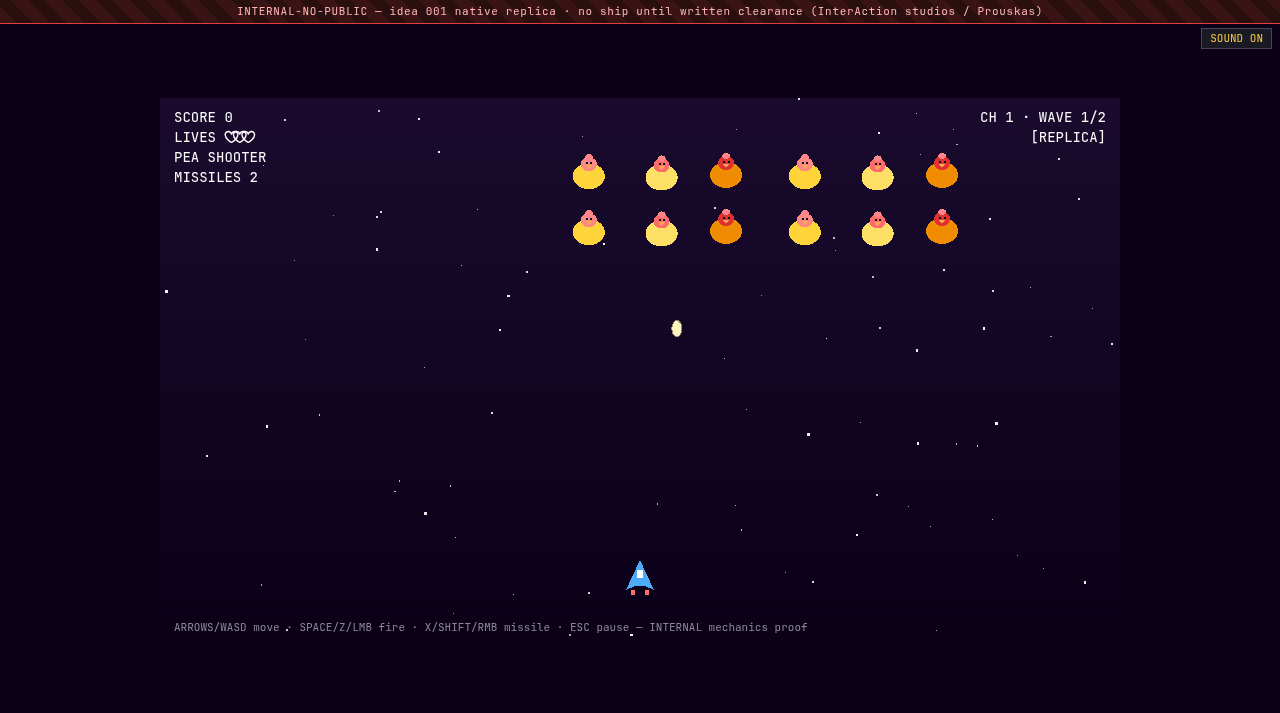
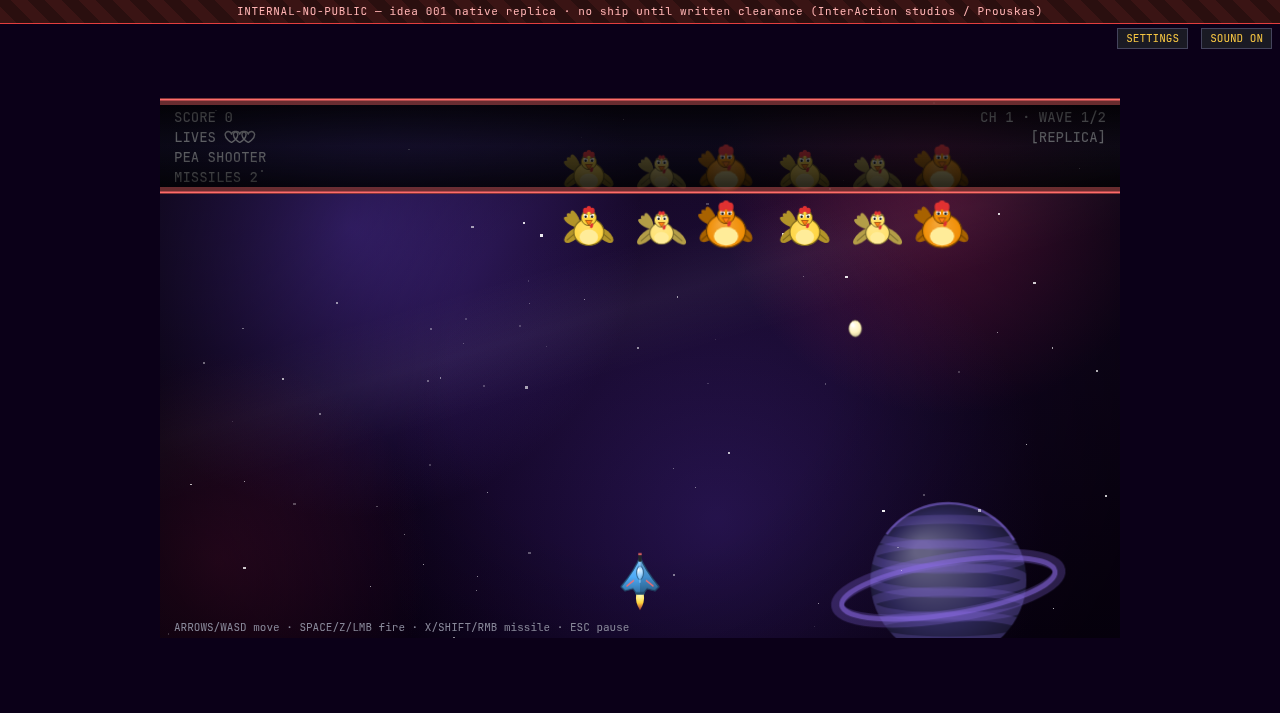
sr3 closing fleet audit: ALL GATES GREEN on final committed tree
- node hardest/validate.mjs: 114/114 exit 0
- typecheck 8/8 workspaces
- all-7 hub click-through (sr1-hub-run.mjs, updated for sr2 title
  flows: sas New Gladiator, burger START+sow coords, impossible title
  chips/run-mode API + bare-canvas selector): PASS — boot + real-input
  interaction per game, 0 console errors, 0 non-local requests;
  file:// hub renders with serve hint; evidence refreshed
- rights audit: shipped artifacts clean (slugs/storage-keys/comments
  only); external-URL audit: none
- branding FINAL: 'Impossible Run' kept (generic adjective + genre
  noun per Burger Tycoon precedent; full-title mark absent); all sr1
  proposals confirmed, applied in-app during sr2
- run plan items 4+5 DONE; closing audit table recorded

Changed region(s): [[0.125, 0.1234, 0.875, 0.6171], [0.4375, 0.4937, 0.8438, 0.8948], [0.875, 0.0309, 0.9375, 0.0926]]

diff --git a/ship-records/README.md b/ship-records/README.md
@@ -74,12 +74,16 @@ Fleet branding below).
    each, 0 console errors, 0 non-local requests): driver
    `verification/evidence/sr1-hub-run.mjs`, log `sr1-hub-run.log`,
    screenshots `sr1-hub*.png`.
-4. **Ship-readiness per game:** resolve/tune placeholder constants, audio
-   (WebAudio doctrine), authored art, menus/HUD/pause/settings/touch/
-   persistence, rights renames (hardest title still original; check each
-   app's player-facing strings).
-5. **Final verification + records:** real-input proofs with evidence; finish
-   each record's checklist/commands/deferrals/provenance.
+4. ~~**Ship-readiness per game**~~ — **DONE (sr2 2026-09-23):** all six titles
+   at SHIP-CANDIDATE — constants tuned with recorded rationale (declared
+   guesses eliminated), WebAudio music + SFX per doctrine, authored art,
+   title/menus/HUD/pause/settings (volume/mute persisted)/touch/persistence,
+   rights renames applied in-app. Per-title results in the records; evidence
+   `verification/evidence/sr2-*`.
+5. ~~**Final verification + records**~~ — **DONE (sr3 2026-09-23):** closing
+   fleet audit below; all recorded verification re-runs offline with zero new
+   dependencies; records complete (checklists, commands + last observed
+   results, deferrals, provenance).
 
 ## Fleet branding (player-facing names, rights posture)
 
@@ -89,22 +93,30 @@ docs, and records; every player-facing name is an original evocation.
 
 | Hub card | Rendition (href) | Name | Basis |
 |---|---|---|---|
-| Crateheads | `games/boxhead/` | Crateheads | **Proposed sr1 2026-09-23** (evocation; flagged for parent) |
-| Impossible Run | `games/impossible-game/` | Impossible Run | **Proposed sr1 2026-09-23** (evocation; keeps the generic adjective only, flagged — alternative "One-Button Ordeal") |
+| Crateheads | `games/boxhead/` | Crateheads | **Decided sr1, applied in-app sr2** (wordmark + strings; bundle grep clean) |
+| Impossible Run | `games/impossible-game/` | Impossible Run | **Decided sr3 2026-09-23 (final):** keeps only the generic adjective + genre noun per the Burger Tycoon precedent (drop the mark, keep descriptive generics); the full-title mark is "The Impossible Game", which appears nowhere player-facing. Alternative "One-Button Ordeal" rejected — loses legibility without reducing risk. |
 | Burger Tycoon | `games/burger-tycoon/` | Burger Tycoon | Sanctioned precedent (concept spec 03; internal UI branding) |
-| Chicken Storm | `games/chicken-invaders/` | Chicken Storm | **Proposed sr1 2026-09-23** (evocation; flagged for parent) |
+| Chicken Storm | `games/chicken-invaders/` | Chicken Storm | **Decided sr1, applied in-app sr2** (pack title + strings; subtitle scrubbed) |
 | Cluck Horizon | `games/cluck-horizon/` | Cluck Horizon | Sanctioned original IP (concept spec 06; in-app title) |
 | Arena of Bonks | `games/swords-and-sandals/` | Arena of Bonks | In-app original string (`apps/swords-and-sandals` arena title), reused |
 | The Cruel Maze | `hardest/` | The Cruel Maze | **Decided sr1 2026-09-23** (renamed in `hardest/game.js`, `hardest/index.html`, `hardest/README.md`; validator re-run 114/114 after) |
 
-Known remaining original-mark player-facing strings INSIDE the apps (out
-of the sr1 slice's touch list; flagged for the ship-readiness wave):
-`apps/boxhead/src/game.ts` title "BOXHEAD — 2PLAY ROOMS (native replica)";
-`apps/swords-and-sandals/src/main.ts` canvas title "SWORDS & SANDALS";
-shmup replica pack title "CHICKEN INVADERS" (`packages/shmup-core/src/
-packs.ts`); impossible in-app strings reference the original title in
-comments only. Level 96 display name "World's Hardest" (`hardest/levels/
-96-worlds-hardest.js`, HUD-visible) also flagged.
+sr2 wave applied every rename in-app (Crateheads wordmark, Chicken Storm
+pack title, Arena of Bonks title, Impossible Run title, The Cruel Maze +
+level-name sweep). sr3 audit: original marks appear in shipped artifacts
+only as storage-key slugs (`maga:boxhead:*` — recorded must-not-regress
+keys), path slugs, and code comments (explicitly permitted).
+
+## Closing fleet audit (sr3, 2026-09-23 — final committed tree)
+
+| Gate | Command | Result |
+|---|---|---|
+| Hardest corpus validator | `node hardest/validate.mjs` | **114/114 exit 0** |
+| Typecheck (8 workspaces) | `npm run typecheck -w @maga/<each>` | **8/8 PASS** |
+| Fleet click-through | `python3 -m http.server 8123` + `node verification/evidence/sr1-hub-run.mjs` | **PASS — all 7 games boot + real-input interaction, 0 console errors, 0 non-local requests** (driver updated for sr2 title flows; refreshed evidence committed) |
+| file:// hub | (same driver) | PASS — 7 cards + serve hint |
+| Rights audit | grep shipped `games/`+`hardest/`+`index.html` for original marks | clean (slugs/comments/keys only) |
+| External-URL audit | grep shipped artifacts for http(s) refs | none (pixi/w3 inert strings only) |
 
 ## Standing directives (from the design pack; bind all records)
 
